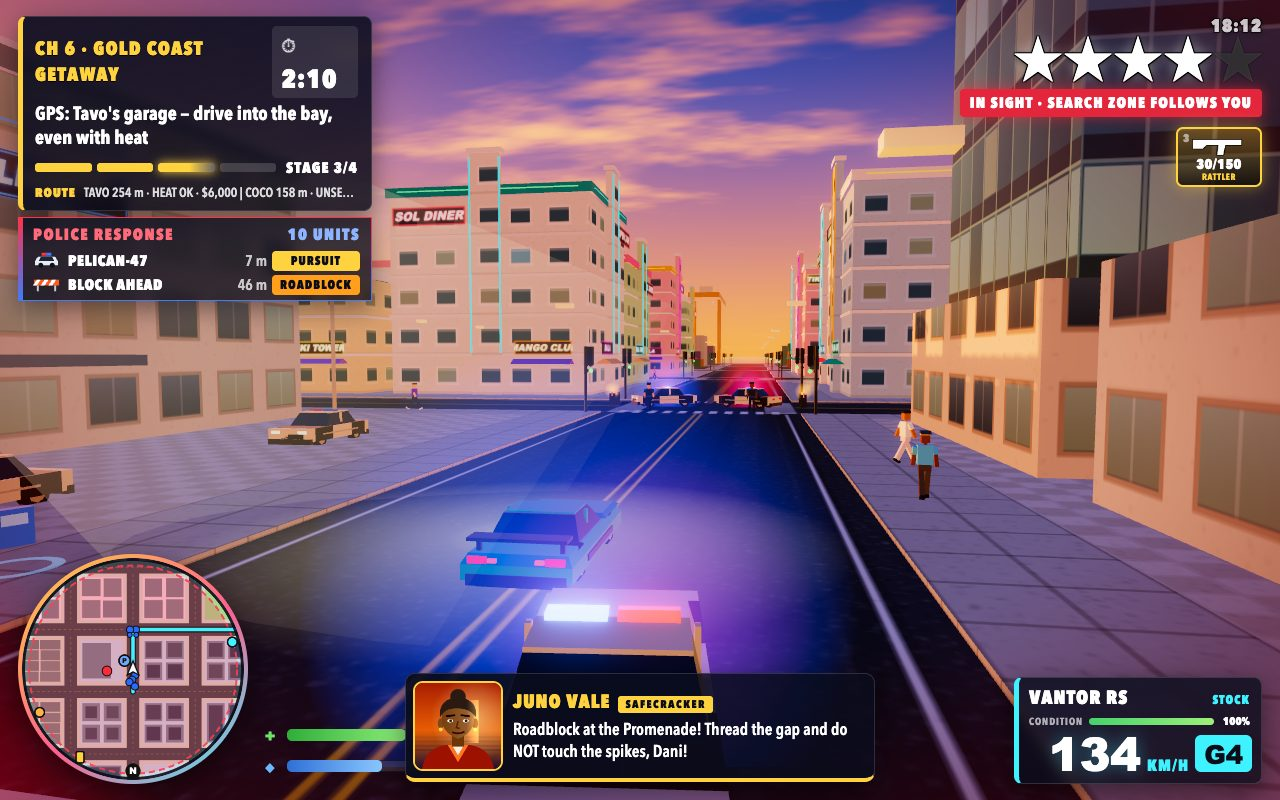
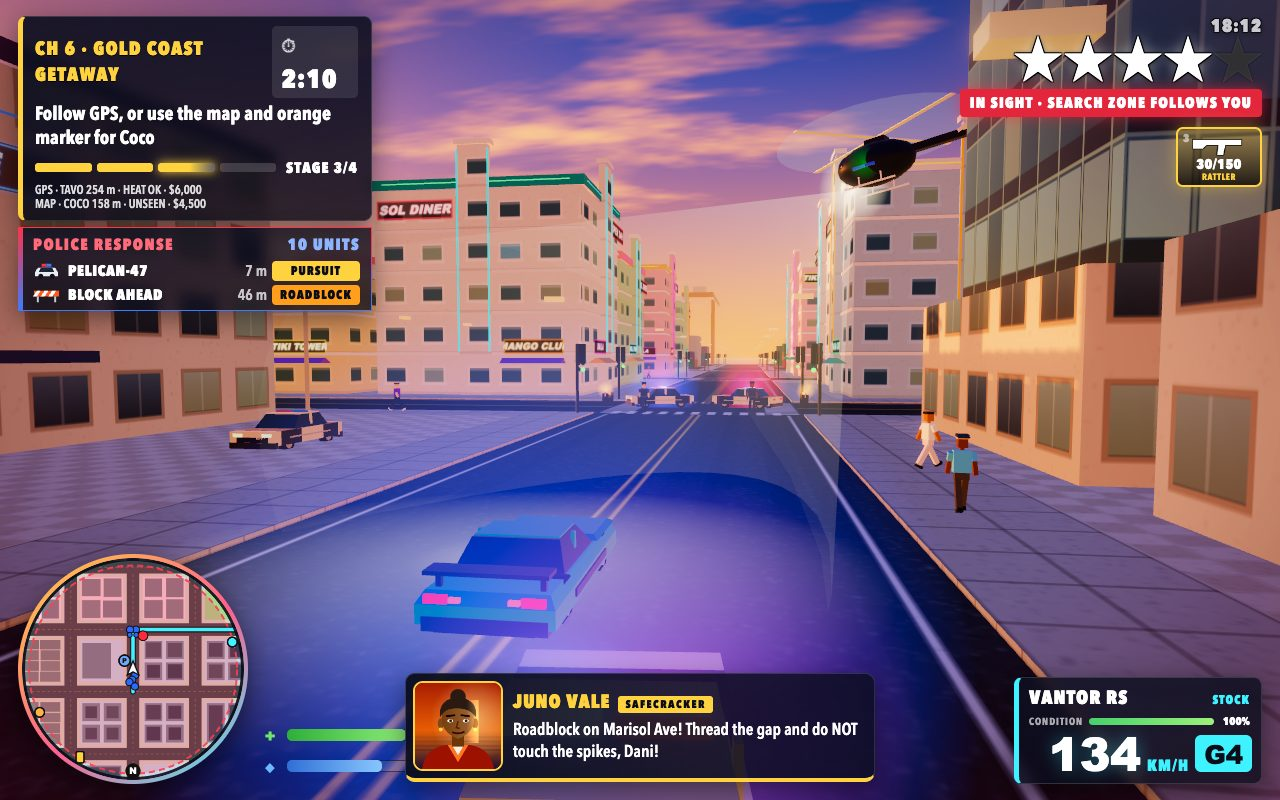
Fix escape choices and final chase cover

diff --git a/game/src/missions/chapters.js b/game/src/missions/chapters.js
@@ -52,11 +52,17 @@ function updateEscape(ctx) {
   const seen = g.wanted.state.seen && g.wanted.level > 0;
   const routeCoco = ctx.data.gpsTo === 'coco';
   ctx.objective(routeCoco
-    ? (seen ? "GPS: Coco's side door — break police sight before entry" : "GPS: Coco's side door — pull in while unseen")
-    : "GPS: Tavo's garage — drive into the bay, even with heat");
+    ? (seen ? "Coco needs you unseen — break police sight or take Tavo's marker" : "Coco is clear — follow GPS or take Tavo's marker")
+    : "Follow GPS, or use the map and orange marker for Coco");
   ctx.data.routeCue = routeCoco
-    ? `COCO ${Math.round(toCoco)} m · UNSEEN · $4,500  |  TAVO ${Math.round(toTavo)} m · HEAT OK · $6,000`
-    : `TAVO ${Math.round(toTavo)} m · HEAT OK · $6,000  |  COCO ${Math.round(toCoco)} m · UNSEEN · $4,500`;
+    ? [
+        `GPS · COCO ${Math.round(toCoco)} m · UNSEEN · $4,500`,
+        `MAP · TAVO ${Math.round(toTavo)} m · HEAT OK · $6,000`,
+      ]
+    : [
+        `GPS · TAVO ${Math.round(toTavo)} m · HEAT OK · $6,000`,
+        `MAP · COCO ${Math.round(toCoco)} m · UNSEEN · $4,500`,
+      ];
   if (ctx.atWaypoint(12) && p.vehicle) {
     // Driving into Tavo's bay with the heat on: the door rolls down behind Dani.
     finishEscape(ctx, 'tavo', "Drop the cash at Tavo's garage");
@@ -71,6 +77,7 @@ function finishEscape(ctx, drop, objective) {
   g.police.reset();
   ctx.clearTimer();
   ctx.data.drop = drop;
+  delete ctx.data.routeCue;
   ctx.stage(3, objective);
 }
 

diff --git a/game/src/shots/shotScenes.js b/game/src/shots/shotScenes.js
@@ -107,17 +107,17 @@ const SCENES = {
     populate(game, 200, 0, 4, 20, 50, 130);
     game.camera.alignBehind(0, 0.12);
     run(game, tools, 0.3, ['KeyW']);
-    // Dispatch boxes the road in at the Promenade, the helicopter leans in over the chase.
+    // Dispatch boxes Marisol Ave in while the helicopter leans in over the chase.
     game.gps.update(1.1);
     game.police.roadblocks.buildAt(140, car.z + 55, 0);
-    game.police.helicopter.placeAt(car.x + 30, 19, car.z - 1, 0);
+    game.police.helicopter.placeAt(car.x - 20, 16, car.z + 48, 0);
     game.dialogue.clear();
-    game.dialogue.say([{ who: 'juno', text: 'Roadblock at the Promenade! Thread the gap and do NOT touch the spikes, Dani!', duration: 30 }]);
+    game.dialogue.say([{ who: 'juno', text: 'Roadblock on Marisol Ave! Thread the gap and do NOT touch the spikes, Dani!', duration: 30 }]);
     run(game, tools, 0.3, ['KeyW']);
     units[0].ramming = true;
     // A close chase camera that keeps Dani's car dominant while the police pack and route read clearly.
     const lead = game.player.vehicle ?? car;
-    game.camera.setPose(lead.x - 4, 4.1, lead.z - 14, lead.x + 1.4, 2, lead.z + 20, 57);
+    game.camera.setPose(lead.x - 3.5, 3.9, lead.z - 11.5, lead.x + 1.2, 2, lead.z + 20, 57);
     clearLens(game);
   },
 

diff --git a/game/src/ui/styles.css b/game/src/ui/styles.css
@@ -206,7 +206,8 @@ html, body { margin: 0; height: 100%; overflow: hidden; background: #0b0d16; fon
 #hud.pursuit #hud-topleft { width: 354px; gap: 6px; }
 #hud.pursuit #hud-mission { padding: 9px 13px 8px 12px; background: linear-gradient(160deg, rgba(14,16,34,0.92), rgba(8,9,22,0.82)); }
 #hud.pursuit #hud-objective { margin: 5px 0 7px; font-size: 19px; }
-#hud.pursuit #hud-mission-next { margin-top: 6px; font-size: 13px; }
+#hud.pursuit #hud-mission-next { display: grid; gap: 1px; margin-top: 6px; font-size: 12px; line-height: 1.15; white-space: normal; }
+#hud.pursuit #hud-mission-next span { display: block; overflow: visible; text-overflow: clip; }
 #hud.pursuit #hud-dispatch { padding: 6px 11px 5px 10px; }
 #hud.pursuit #hud-dispatch-rows { display: flex; margin: 5px 0 0; }
 #hud.pursuit #hud-dispatch-rows li { display: none; grid-template-columns: 30px 1fr 52px 88px; font-size: 15px; gap: 5px; }

diff --git a/game/src/shots/selfTest.js b/game/src/shots/selfTest.js
@@ -157,7 +157,8 @@ export function runSelfTest(game, { simulate, input, session, interactions }, re
     if (ctx.stageIndex !== 2 || game.wanted.level !== 4) throw new Error(`case grabbed but stage ${ctx.stageIndex}, ${game.wanted.level} stars`);
     run(0.2);
     const spot = drop === 'coco' ? ctx.data.cocoDrop : ctx.current;
-    if (!ctx.data.routeCue?.includes('$6,000') || !ctx.data.routeCue.includes('$4,500')) throw new Error(`missing route terms: ${ctx.data.routeCue}`);
+    const routeTerms = ctx.data.routeCue?.join(' ') ?? '';
+    if (!routeTerms.includes('$6,000') || !routeTerms.includes('$4,500')) throw new Error(`missing route terms: ${routeTerms}`);
     const car = game.vehicles.spawn('vantor', spot.x, spot.z - 9, 0);
     p.teleport(car.x - 2, car.z);
     p.enterVehicle(car);

diff --git a/game/src/ui/missionCard.js b/game/src/ui/missionCard.js
@@ -37,7 +37,7 @@ export function createMissionCard(game) {
       setText(el.stageLabel, `STAGE ${ctx.stageIndex + 1}/${stages.length}`);
       const next = stages[ctx.stageIndex + 1];
       setHtml(el.next, ctx.data.routeCue
-        ? `<b>ROUTE</b> ${esc(ctx.data.routeCue)}`
+        ? ctx.data.routeCue.map((line) => `<span>${esc(line)}</span>`).join('')
         : next ? `<b>NEXT</b> ${esc(next)}` : `<b>PAYOUT</b> $${def.reward.toLocaleString('en-US')}`);
     } else if (side && state.objective) {
       el.card.dataset.kind = 'side';
